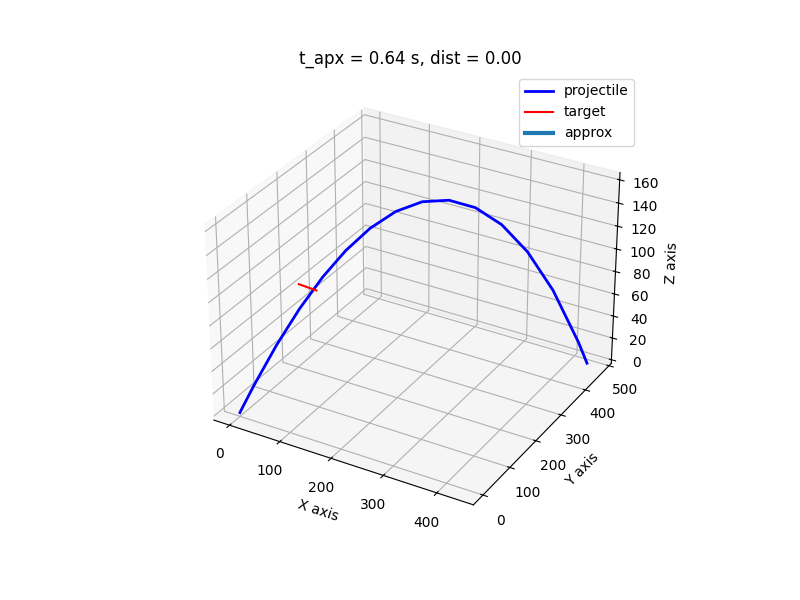
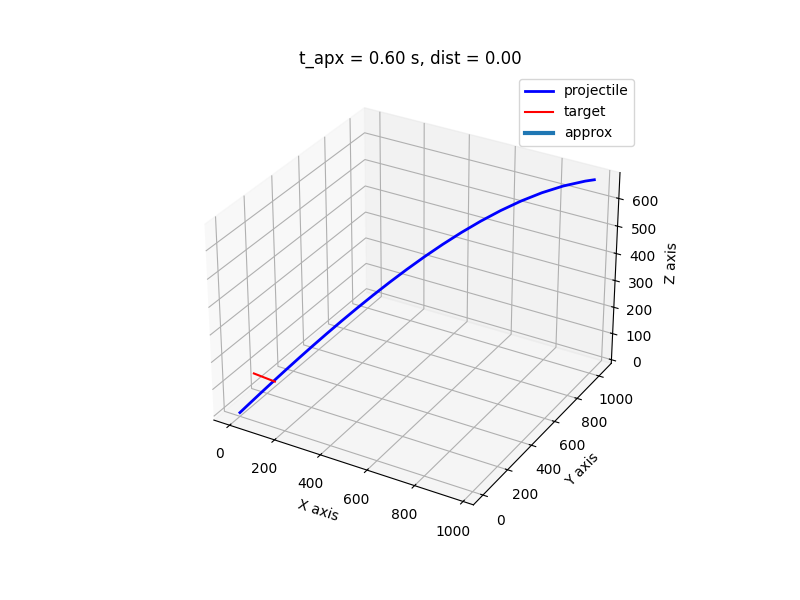
Fix gravity and air drag in the trajectory ODE
The state equation is written in the target-relative frame, and three
terms were wrong as a result:

- Gravity was g / m, so the fall rate scaled with the projectile mass.
  It is now g.
- Drag used the velocity relative to the target. It now uses the
  projectile's absolute velocity, so the projectile's path no longer
  changes when only the target velocity changes.
- Air density used the altitude relative to the target. It now uses the
  projectile's absolute altitude.

create_state_eq takes the InitCond to convert the state back.

Update the README equations and example output to match, and regenerate
images/trajectory_3d.png. The README example now gives
"46.95 36.46 0.00 601.31" instead of "46.95 40.98 0.00 642.33".

diff --git a/src/fcs/algorithm/solver.py b/src/fcs/algorithm/solver.py
@@ -23,10 +23,12 @@ def air_density(z: float, atoms_model: AtmosphereModel) -> float:
     return atoms_model.std_density * coef
 
 
-def create_state_eq(runtime_const: RuntimeConst, atoms_model: AtmosphereModel) -> StateEquation:
+def create_state_eq(runtime_const: RuntimeConst, atoms_model: AtmosphereModel, init_cond: InitCond) -> StateEquation:
     area = runtime_const.area
     cd = runtime_const.cd
     m = runtime_const.m
+    t_z0 = init_cond.t_pos[2]
+    t_vx, t_vy, t_vz = init_cond.t_dir
     match runtime_const.drag_type:
         case "pressure":
             drag_velocity_index = 1
@@ -35,16 +37,23 @@ def create_state_eq(runtime_const: RuntimeConst, atoms_model: AtmosphereModel) -
         case _:
             raise ValueError(runtime_const.drag_type)
 
-    def state_eq(_: float, state: State) -> tuple[float, float, float, float, float, float]:
+    def state_eq(t: float, state: State) -> tuple[float, float, float, float, float, float]:
         _, _, z, vx, vy, vz = state
 
-        v_norm = np.sqrt(vx**2 + vy**2 + vz**2)
-        k = area * cd * air_density(z, atoms_model) / 2  # 空気抵抗係数
+        # 状態は目標相対系なので、空気抵抗と大気密度は絶対系 (対気速度・絶対高度) に戻して計算する
+        abs_vx = vx + t_vx
+        abs_vy = vy + t_vy
+        abs_vz = vz + t_vz
+        abs_z = z + t_z0 + t_vz * t
+
+        v_norm = np.sqrt(abs_vx**2 + abs_vy**2 + abs_vz**2)
+        k = area * cd * air_density(abs_z, atoms_model) / 2  # 空気抵抗係数
         v_coef = k * np.power(v_norm, drag_velocity_index) / m
 
-        ax = -v_coef * vx
-        ay = -v_coef * vy
-        az = -v_coef * vz - g / m
+        # 目標は等速直線運動なので、相対加速度は絶対加速度に等しい
+        ax = -v_coef * abs_vx
+        ay = -v_coef * abs_vy
+        az = -v_coef * abs_vz - g
         return vx, vy, vz, ax, ay, az
 
     return state_eq
@@ -59,7 +68,7 @@ def solve(
 ) -> TrajectoryResult:
     init_state = create_init_state(init_cond, runtime_const)
     sol = solve_ivp(
-        create_state_eq(runtime_const, atoms_model),
+        create_state_eq(runtime_const, atoms_model, init_cond),
         runtime_const.span,
         init_state,
         t_eval=t_eval,

diff --git a/README.md b/README.md
@@ -46,22 +46,22 @@ $ uv sync
 If you can use `uv`, you can run following command:
 ```shell
 $ uv run lead 0.1 0.001 0.1 300 100 100 100 -10 1 0
-46.95 40.98 0.00 642.33 43.00
+46.95 36.46 0.00 601.31 43.00
 ``` 
 or not:
 ```shell
 $ python .\src\fcs\main.py 0.1 0.001 0.1 300 100 100 100 -10 1 0
-46.95 40.98 0.00 642.33 43.00
+46.95 36.46 0.00 601.31 43.00
 ``` 
 Adding the `-r` (`--readable`) option will output the results in a more human-readable format.
 ```shell
 $ lead -r 0.1 0.001 0.1 300 100 100 100 -10 1 0
-phi: 46.95°, theta: 40.98°, dist: 0.00, eta_time: 642.33 ms, calc_time: 35.51 ms
+phi: 46.95°, theta: 36.46°, dist: 0.00, eta_time: 601.31 ms, calc_time: 35.51 ms
 ``` 
 Adding the `--plot` option will show trajectory of projectile and target.
 ```shell
 $ lead --plot 0.1 0.001 0.1 300 100 100 100 -10 1 0
-46.95 40.98 0.00 642.33 43.00
+46.95 36.46 0.00 601.31 43.00
 ``` 
 ![calculated_trajectory](images/trajectory_3d.png)
 
@@ -105,15 +105,15 @@ v_z
 v_x \\
 v_y \\
 v_z \\
--Cv_x \\
--Cv_y \\
--Cv_z - g/m
+-C(v_x + d_x) \\
+-C(v_y + d_y) \\
+-C(v_z + d_z) - g
 \end{pmatrix}
 \end{align}
 ```
-where $C$ is the air resistance coefficient and follows the following equation.
+Here $\vec{S}$ is the state of the projectile relative to the target. Air resistance, however, depends on the motion relative to the air, so it is evaluated with the absolute velocity $\vec{v} + \vec{d}$ and the absolute altitude $z + r_{0z} + d_z t$ of the projectile. $C$ is the air resistance coefficient and follows the following equation.
 ```math
-C = \frac{AC_DD(z)|\vec{v}|^{I}}{2m}
+C = \frac{AC_DD(z + r_{0z} + d_z t)|\vec{v} + \vec{d}|^{I}}{2m}
 ```
 Use the following values as the initial conditions for the differential equation:
 ```math
